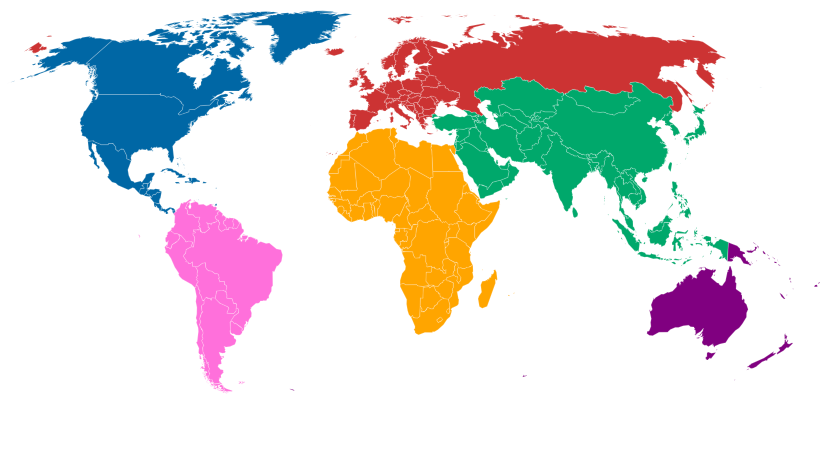
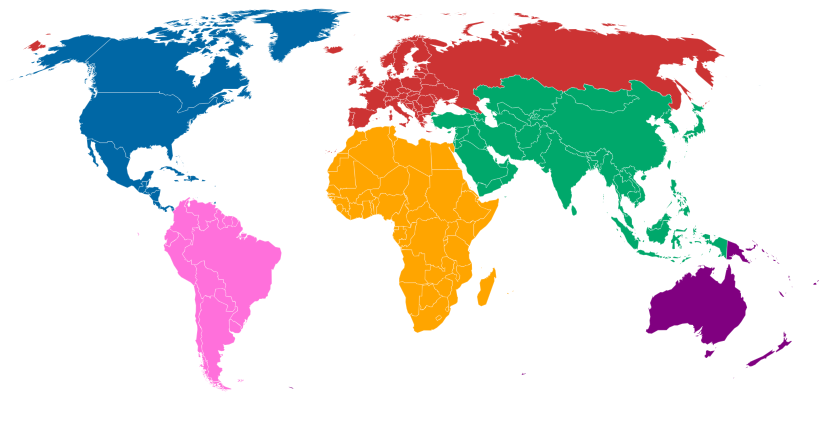
Complete first cut of progressive loading

diff --git a/style.css b/style.css
@@ -5,7 +5,7 @@ html {
 	
 body {
 	background: #777;
-	font-family: Helvetica, Arial;
+	font-family: Helvetica, Arial, sans-serif;
 	margin: 0;
 	}
 	
@@ -18,10 +18,6 @@ body {
 	}
 
 /******** Fonts and swatches ********/
-
-#wrapper, #masthead, #site-title, #site-strapline {
-	font-family: Helvetica, Arial, sans-serif;
-	}
 
 /*.red {color: rgb(213,17,0)}
 .green {color: rgb(0,198,62)}
@@ -225,40 +221,69 @@ h3 {
 	width: 825px;
 	height: 420px;
 	position: absolute;
+	top: 0;
 	cursor: pointer;
+	display: none;
 }
 	
 #maparea {
 	height: 450px;
 	position: relative;
-	}
+}
 	
 #map {
 	height: 400px;
 	width: 820px;
-	}
+	position: absolute;
+	left: 0; top: 0;
+}
 
 #map-placeholder {
-	width: 820px;
-	height: 450px;
+	width: 819px;
+	height: 448px;
 	position: absolute;
+	left: 0; top: 0;
+}
+
+#loading {
+	position: absolute;
+	top: 0; left: 0; bottom: 0; right: 0;
+	background-color: black;
+	opacity: 0.6;
+	display: none;
+}
+#loading img {
+	position: absolute;
+	left: 300px; top: 144px;
+	width: 220px;
+	height: 19px;
+}
+#loading div {
+	color: white;
+	size: 14px;
+	font-weight: bold;
+	text-align: center;
+
+	position: absolute;
+	left: 300px; top: 167px;
+	width: 220px;
 }
 
 svg {
 	background: white;
 	border: none;
-	}
+}
 
 #bounds {
 	fill: none;
 	stroke: none;
-	}
+}
 
 path {
 	stroke: white;
 	stroke-width: 7000;
 	fill: #DDD; /* Used for countries with no data */
-	}
+}
 
 .country {
 	cursor: pointer;

diff --git a/carbonmap.js b/carbonmap.js
@@ -2,8 +2,15 @@ var carbonmap_data = {};
 var carbonmap_values = {};
 var carbonmap_shading = {};
 var carbonmap_data_loaded = false;
+var carbonmap_timer;
 
 $(function() {
+
+    // After five seconds, show a "loading" ticker
+    carbonmap_timer = setTimeout(function() {
+        carbonmap_timer = null;
+        $("#loading").show();
+    }, 5000);
 
     var loadAsync = function(js_file) {
         (function() {
@@ -21,11 +28,15 @@ $(function() {
 });
 
 function carbonmapDataLoaded() {
+    if (carbonmap_timer) clearTimeout(carbonmap_timer);
+    $("#loading").hide();
+    
     // If the browser does not support HTML audio, skip the intro.
     // I’m not sure there actually are any browsers that support
     // SMIL but not HTML audio, but if there are we’re ready for them!
     var welcome = Modernizr.audio;
     if (welcome) {
+        $("#play-intro").show();
         $(".unwelcome").hide();
     }
     else {
